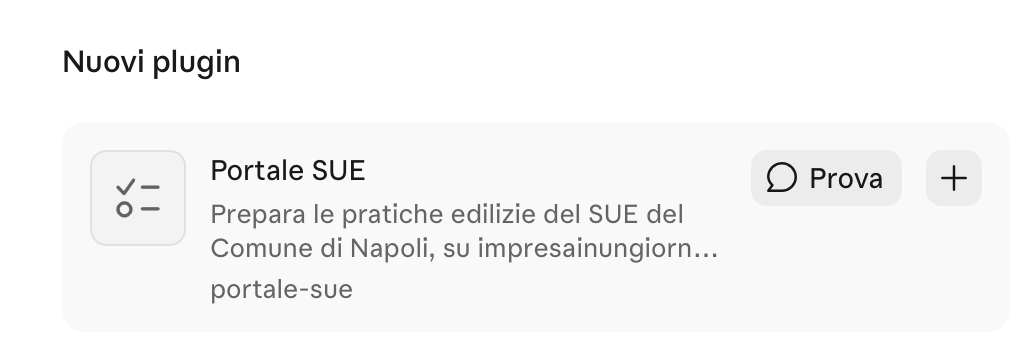
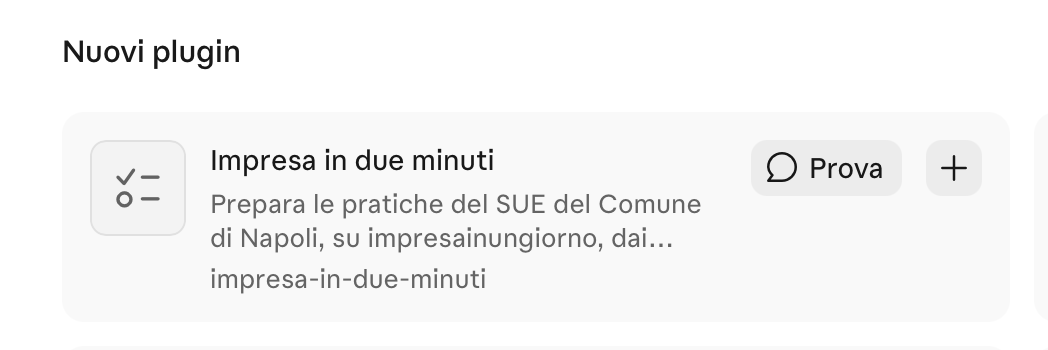
Install page: the «Nuovi plugin» shot with Impresa in due minuti
Liam's Retina screenshot (1048x350, shown at 524x175); the ring on «+».

diff --git a/site/index.html b/site/index.html
@@ -145,9 +145,9 @@
       <h2>Aggiungi Impresa in due minuti</h2>
       <p>Lo trovi tra i <span class="ui" data-en="New plugins">Nuovi plugin</span>: <span class="nw">clicca <span class="ui" data-en="+">+</span>.</span></p>
       <figure class="shot">
-        <img src="img/aggiungi-plugin.png" width="515" height="175" loading="lazy"
+        <img src="img/aggiungi-plugin.png" width="524" height="175" loading="lazy"
              alt="Impresa in due minuti nell'elenco «Nuovi plugin», con il pulsante «+» evidenziato.">
-        <span class="ring" style="left:89.3%;top:41.7%;width:6.5%;height:18%" aria-hidden="true"></span>
+        <span class="ring" style="left:87.8%;top:38.9%;width:6.4%;height:18%" aria-hidden="true"></span>
       </figure>
     </li>
   </ol>
